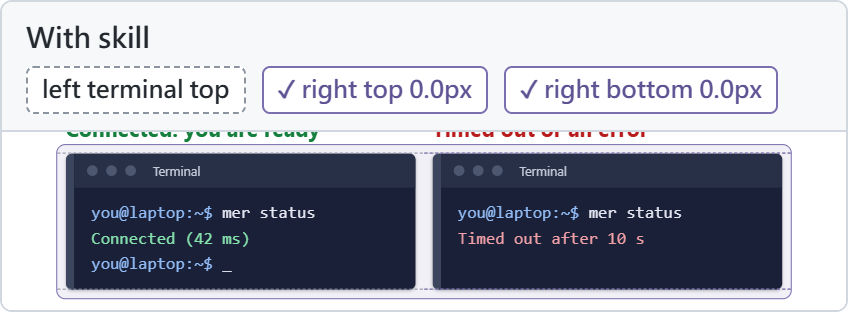
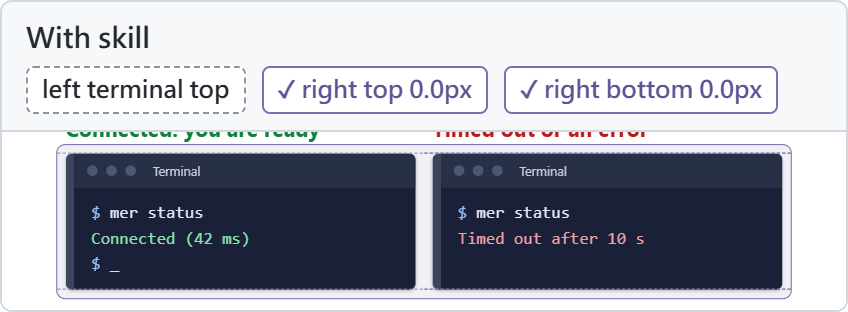
Add noWrap check; fix a wrapped command in the print example
Comparing the example before and after by eye showed a regression the checks could not see: in the
"with" page a command wrapped inside a half-width terminal, because the fixed terminals have more
padding. alignment-guard gets a `noWrap` check type (a block whose source lines must stay whole renders
exactly that many lines), the print example configs use it on terminals, and the example prompt is
shortened to `$`. print-check now counts 15 guard checks.

Changed region(s): [[0.5212, 0.6635, 0.7972, 0.7212], [0.092, 0.6635, 0.3679, 0.7212], [0.092, 0.8365, 0.2759, 0.8654]]

diff --git a/docs/demo/print/without/index.html b/docs/demo/print/without/index.html
@@ -90,15 +90,15 @@
     <div>
       <div class="ok">Connected: you are ready</div>
       <div data-qa="term" class="term"><div class="bar"><i></i><i></i><i></i><span>Terminal</span></div>
-<pre data-qa="term-body"><span class="p">you@laptop:~$</span> <span class="c">mer status</span>
+<pre data-qa="term-body"><span class="p">$</span> <span class="c">mer status</span>
 <span class="g">Connected (42 ms)</span>
-<span class="p">you@laptop:~$</span> _</pre></div>
+<span class="p">$</span> _</pre></div>
       <p style="font-size:12.5pt">“Connected” means the door answered. Carry on to step 2, and keep this window open.</p>
     </div>
     <div>
       <div class="no">Timed out, or an error message appears instead</div>
       <div data-qa="term" class="term"><div class="bar"><i></i><i></i><i></i><span>Terminal</span></div>
-<pre data-qa="term-body"><span class="p">you@laptop:~$</span> <span class="c">mer status</span>
+<pre data-qa="term-body"><span class="p">$</span> <span class="c">mer status</span>
 <span class="r">Timed out after 10 s</span></pre></div>
       <p style="font-size:12.5pt">You are probably away from the office network. Join the Wi-Fi or the VPN, then run the command again.</p>
     </div>
@@ -118,13 +118,13 @@
     <div>
       <div class="ok">A file name appears: go to 2-2</div>
       <div data-qa="term" class="term"><div class="bar"><i></i><i></i><i></i><span>Terminal</span></div>
-<pre data-qa="term-body"><span class="p">you@laptop:~$</span> <span class="c">ls ~/.mer/credentials</span>
+<pre data-qa="term-body"><span class="p">$</span> <span class="c">ls ~/.mer/credentials</span>
 /home/you/.mer/credentials</pre></div>
     </div>
     <div>
       <div class="no">No such file: ask for a token</div>
       <div data-qa="term" class="term"><div class="bar"><i></i><i></i><i></i><span>Terminal</span></div>
-<pre data-qa="term-body"><span class="p">you@laptop:~$</span> <span class="c">ls ~/.mer/credentials</span>
+<pre data-qa="term-body"><span class="p">$</span> <span class="c">ls ~/.mer/credentials</span>
 <span class="r">ls: no such file or directory</span></pre></div>
       <p class="muted" style="font-size:11.5pt">Ask your team lead for a Meridian token.</p>
     </div>
@@ -136,7 +136,7 @@
   <h3>2-3  Check who you are</h3>
   <div data-qa="cmd" class="cmd">mer whoami</div>
   <div data-qa="term" class="term"><div class="bar"><i></i><i></i><i></i><span>Terminal</span></div>
-<pre data-qa="term-body"><span class="p">you@laptop:~$</span> <span class="c">mer whoami</span>
+<pre data-qa="term-body"><span class="p">$</span> <span class="c">mer whoami</span>
 <span class="g">Signed in as ada@example.com (team: platform)</span></pre></div>
   <div data-qa="foot" class="foot"><span>Meridian quick start</span><span>Page 3</span></div>
 </section>

diff --git a/docs/demo/print/with/index.html b/docs/demo/print/with/index.html
@@ -109,15 +109,15 @@
     <div>
       <div class="ok">Connected: you are ready</div>
       <div data-qa="term" class="term"><div class="bar"><i></i><i></i><i></i><span>Terminal</span></div>
-<pre data-qa="term-body"><span class="p">you@laptop:~$</span> <span class="c">mer status</span>
+<pre data-qa="term-body"><span class="p">$</span> <span class="c">mer status</span>
 <span class="g">Connected (42 ms)</span>
-<span class="p">you@laptop:~$</span> _</pre></div>
+<span class="p">$</span> _</pre></div>
       <p class="t-sm">“Connected” means the door answered. Carry on to step 2, and keep this window open.</p>
     </div>
     <div>
       <div class="no">Timed out or an error</div>
       <div data-qa="term" class="term"><div class="bar"><i></i><i></i><i></i><span>Terminal</span></div>
-<pre data-qa="term-body"><span class="p">you@laptop:~$</span> <span class="c">mer status</span>
+<pre data-qa="term-body"><span class="p">$</span> <span class="c">mer status</span>
 <span class="r">Timed out after 10 s</span></pre></div>
       <p class="t-sm">You are probably away from the office network. Join the Wi-Fi or the VPN, then run the command again.</p>
     </div>
@@ -137,13 +137,13 @@
     <div>
       <div class="ok">A file name appears: go to 2-2</div>
       <div data-qa="term" class="term"><div class="bar"><i></i><i></i><i></i><span>Terminal</span></div>
-<pre data-qa="term-body"><span class="p">you@laptop:~$</span> <span class="c">ls ~/.mer/credentials</span>
+<pre data-qa="term-body"><span class="p">$</span> <span class="c">ls ~/.mer/credentials</span>
 /home/you/.mer/credentials</pre></div>
     </div>
     <div>
       <div class="no">No such file: ask for a token</div>
       <div data-qa="term" class="term"><div class="bar"><i></i><i></i><i></i><span>Terminal</span></div>
-<pre data-qa="term-body"><span class="p">you@laptop:~$</span> <span class="c">ls ~/.mer/credentials</span>
+<pre data-qa="term-body"><span class="p">$</span> <span class="c">ls ~/.mer/credentials</span>
 <span class="r">ls: no such file or directory</span></pre></div>
       <p class="muted t-sm">Ask your team lead for a Meridian token.</p>
     </div>
@@ -155,7 +155,7 @@
   <h3>2-3  Check who you are</h3>
   <div data-qa="cmd" class="cmd">mer whoami</div>
   <div data-qa="term" class="term"><div class="bar"><i></i><i></i><i></i><span>Terminal</span></div>
-<pre data-qa="term-body"><span class="p">you@laptop:~$</span> <span class="c">mer whoami</span>
+<pre data-qa="term-body"><span class="p">$</span> <span class="c">mer whoami</span>
 <span class="g">Signed in as ada@example.com (team: platform)</span></pre></div>
   <div data-qa="foot" class="foot"><span>Meridian quick start</span><span>Page 3</span></div>
 </section>

diff --git a/README.md b/README.md
@@ -36,7 +36,7 @@ SKILL.md                                    # the rules the agent follows
 templates/tokens.css                        # spacing, type pairs, control heights, overlays (screen)
 templates/tokens.print-a4.css               # the print preset: modular type scale, one inset
 templates/spacing-lint.mjs                  # lint: spacing scale, line-height, font-size
-templates/alignment-guard.mjs               # browser checks: edges, rows, baselines, gaps, overlays, stub lines
+templates/alignment-guard.mjs               # browser checks: edges, rows, baselines, gaps, overlays, stub lines, wrapped code
 templates/typography-check.mjs              # type scale, leading, line length, rhythm, alignment lines
 templates/palette-check.mjs                 # colours, hue families, WCAG contrast
 templates/align.config.example.json         # a complete example check config, one section per component
@@ -113,11 +113,12 @@ A printed sheet has no breakpoints and no hover, but it drifts the same way: a p
 
 - **One fixed viewport.** Set `"allowSingleViewport": true` and the sheet size (794x1123 for A4 at 96 dpi). Give each sheet `min-height` instead of `height`, and add a `size` check on it: content that no longer fits pushes the sheet taller, and the check fails.
 - **A print preset.** `templates/tokens.print-a4.css` has a modular type scale (12/16/20/24/32/40, adjacent steps 1.2x to 1.33x) and one `--inset`, the text-left shared by boxes, lists and table cells. Start the config from `templates/align.config.print.example.json`.
-- **Three more checks.**
+- **Four more checks.**
 
 | Check | What fails |
 |---|---|
 | `widow` in `alignment-guard.mjs` | A wrapped paragraph whose last line is narrower than `minEm` (the example uses 6) |
+| `noWrap` in `alignment-guard.mjs` | A terminal or code block that renders more lines than it has: a command wrapped inside a narrow box |
 | `typography-check.mjs` | Adjacent font sizes more than 1.34x or less than 1.2x apart, prose leading below 1.5x, a paragraph wider than 40em, block gaps that are not multiples of 8px, a heading nearer to what precedes it than to what follows, text starting off the alignment lines |
 | `palette-check.mjs` | Too many colours, a hue family outside the palette, text below 4.5:1 (3:1 for large text), saturated fills over 10% of the page |
 
@@ -126,7 +127,7 @@ The example in `docs/demo/print` is a quick start for an invented command-line t
 | Measured on the rendered page | Without the skill | With the skill |
 |---|---:|---:|
 | Spacing lint violations | 50 | 0 |
-| Guard checks failing (of 14) | 5 | 0 |
+| Guard checks failing (of 15) | 5 | 0 |
 | Stub last lines | 2 | 0 |
 | Font sizes in use | 9 | 5 |
 | Typography violations | 45 | 0 |
